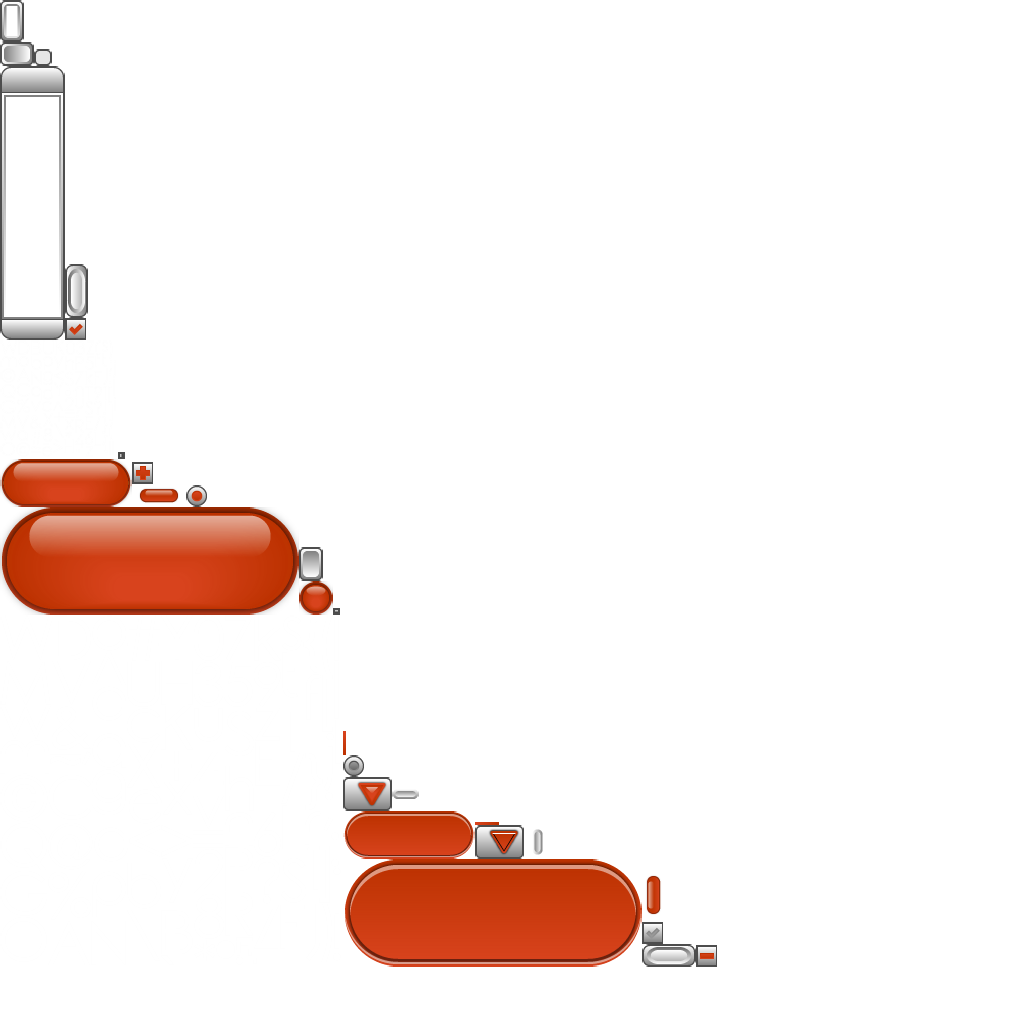
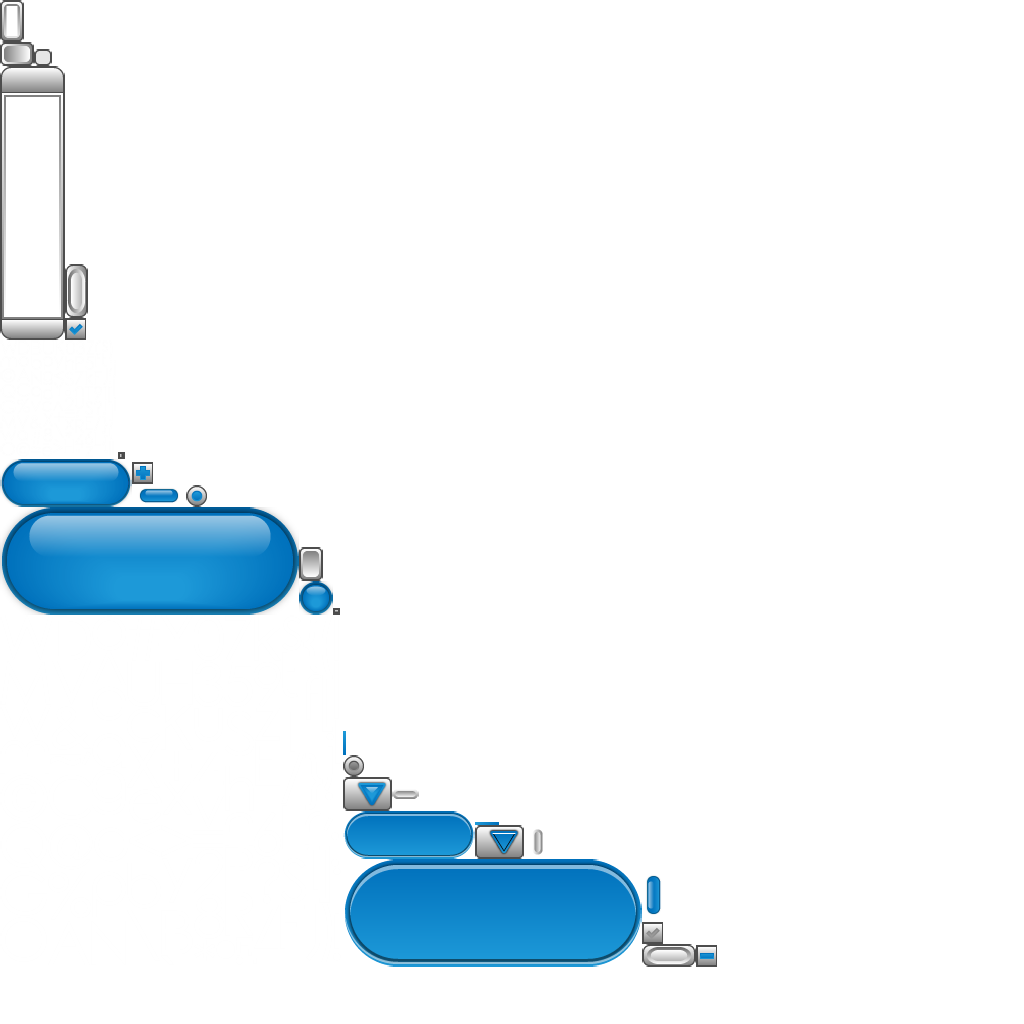
2.1. Preferences
Anfang PreferencesScreen

Changed region(s): [[0.3125, 0.75, 0.6562, 0.9688], [0.0, 0.4375, 0.3438, 0.625]]

diff --git a/core/src/main/java/de/nicolas/utils/AppPreferences.java b/core/src/main/java/de/nicolas/utils/AppPreferences.java
@@ -1,0 +1,62 @@
+package de.nicolas.utils;
+
+import com.badlogic.gdx.Gdx;
+import com.badlogic.gdx.Preferences;
+
+/** Einstellungen für das Spiel */
+public class AppPreferences {
+
+    private static final String PREF_MUSIC_VOLUME = "volume";
+    private static final String PREF_MUSIC_ENABLED = "music.enabled";
+    private static final String PREF_SOUND_ENABLED = "sound.enabled";
+    private static final String PREF_SOUND_VOLUME = "sound";
+    private static final String PREF_NAME = "firstgame";
+
+    protected Preferences getPrefs(){
+        return Gdx.app.getPreferences(PREF_NAME);
+    }
+
+    /** Getter für Sound Status */
+    public boolean isSoundEffectEnabled(){
+        return getPrefs().getBoolean(PREF_SOUND_ENABLED, true);
+    }
+
+    /** Setter für Sound Status */
+    public void setSoundEffectsEnabled(boolean soundEffectsEnabled){
+        getPrefs().putBoolean(PREF_SOUND_ENABLED, soundEffectsEnabled);
+        getPrefs().flush();
+    }
+
+    /** Getter für Musik Status */
+    public boolean isMusicEnabled(){
+        return getPrefs().getBoolean(PREF_MUSIC_ENABLED, true);
+    }
+
+    /** Setter für Musik Status */
+    public void setMusicEnabled(boolean musicEnabled){
+        getPrefs().putBoolean(PREF_MUSIC_ENABLED, musicEnabled);
+        getPrefs().flush();
+    }
+
+    /** Getter für Musik Lautstärke */
+    public float getMusicVolume(){
+        return getPrefs().getFloat(PREF_MUSIC_VOLUME, 0.5f);
+    }
+
+    /** Setter für Musik Lautstärke */
+    public void setMusicVolume(float volume){
+        getPrefs().putFloat(PREF_MUSIC_VOLUME, volume);
+        getPrefs().flush();
+    }
+
+    /** Getter für Sound Lautstärke */
+    public float getSoundVolume(){
+        return getPrefs().getFloat(PREF_SOUND_VOLUME, 0.5f);
+    }
+
+    /** Setter für Sound Lautstärke */
+    public void setSoundVolume(float volume){
+        getPrefs().putFloat(PREF_SOUND_VOLUME, volume);
+        getPrefs().flush();
+    }
+}

diff --git a/core/src/main/java/de/nicolas/views/MenuScreen.java b/core/src/main/java/de/nicolas/views/MenuScreen.java
@@ -2,10 +2,12 @@ package de.nicolas.views;
 
 import com.badlogic.gdx.Gdx;
 import com.badlogic.gdx.Screen;
+import com.badlogic.gdx.scenes.scene2d.Actor;
 import com.badlogic.gdx.scenes.scene2d.Stage;
 import com.badlogic.gdx.scenes.scene2d.ui.Skin;
 import com.badlogic.gdx.scenes.scene2d.ui.Table;
 import com.badlogic.gdx.scenes.scene2d.ui.TextButton;
+import com.badlogic.gdx.scenes.scene2d.utils.ChangeListener;
 import com.badlogic.gdx.utils.ScreenUtils;
 import com.badlogic.gdx.utils.viewport.ScreenViewport;
 import de.nicolas.GdxGame;
@@ -37,8 +39,28 @@ public class MenuScreen implements Screen {
         Skin skin = new Skin(Gdx.files.internal("skin/glassy-ui.json"));
 
         TextButton newGame = new TextButton("New Game", skin);
+        newGame.addListener(new ChangeListener() {
+            @Override
+            public void changed(ChangeEvent event, Actor actor) {
+                game.changeScreen(GdxGame.APPLICATION);
+            }
+        });
+
         TextButton preferences = new TextButton("Preferences", skin);
+        preferences.addListener(new ChangeListener() {
+            @Override
+            public void changed(ChangeEvent event, Actor actor) {
+                game.changeScreen(GdxGame.PREFERENCES);
+            }
+        });
+
         TextButton exit = new TextButton("Exit", skin);
+        exit.addListener(new ChangeListener() {
+            @Override
+            public void changed(ChangeEvent event, Actor actor) {
+                Gdx.app.exit();
+            }
+        });
 
         table.add(newGame).fillX().uniformX();
         table.row().pad(10f, 0f, 10f, 0f);
@@ -77,6 +99,6 @@ public class MenuScreen implements Screen {
 
     @Override
     public void dispose() {
-
+        stage.dispose();
     }
 }

diff --git a/core/src/main/java/de/nicolas/views/PreferencesScreen.java b/core/src/main/java/de/nicolas/views/PreferencesScreen.java
@@ -1,6 +1,9 @@
 package de.nicolas.views;
 
+import com.badlogic.gdx.Gdx;
 import com.badlogic.gdx.Screen;
+import com.badlogic.gdx.scenes.scene2d.Stage;
+import com.badlogic.gdx.utils.viewport.ScreenViewport;
 import de.nicolas.GdxGame;
 
 public class PreferencesScreen implements Screen {
@@ -8,8 +11,15 @@ public class PreferencesScreen implements Screen {
     /** Verweis auf die Hauptspiel-Klasse, die das wechseln von Screens ermöglicht */
     private GdxGame game;
 
+    /** Stage ist die Grundlage für unser Menu und reagiert auf Input */
+    private Stage stage;
+
     public PreferencesScreen(GdxGame game) {
         this.game = game;
+
+        stage = new Stage(new ScreenViewport());
+
+        Gdx.input.setInputProcessor(stage);
     }
 
     @Override
